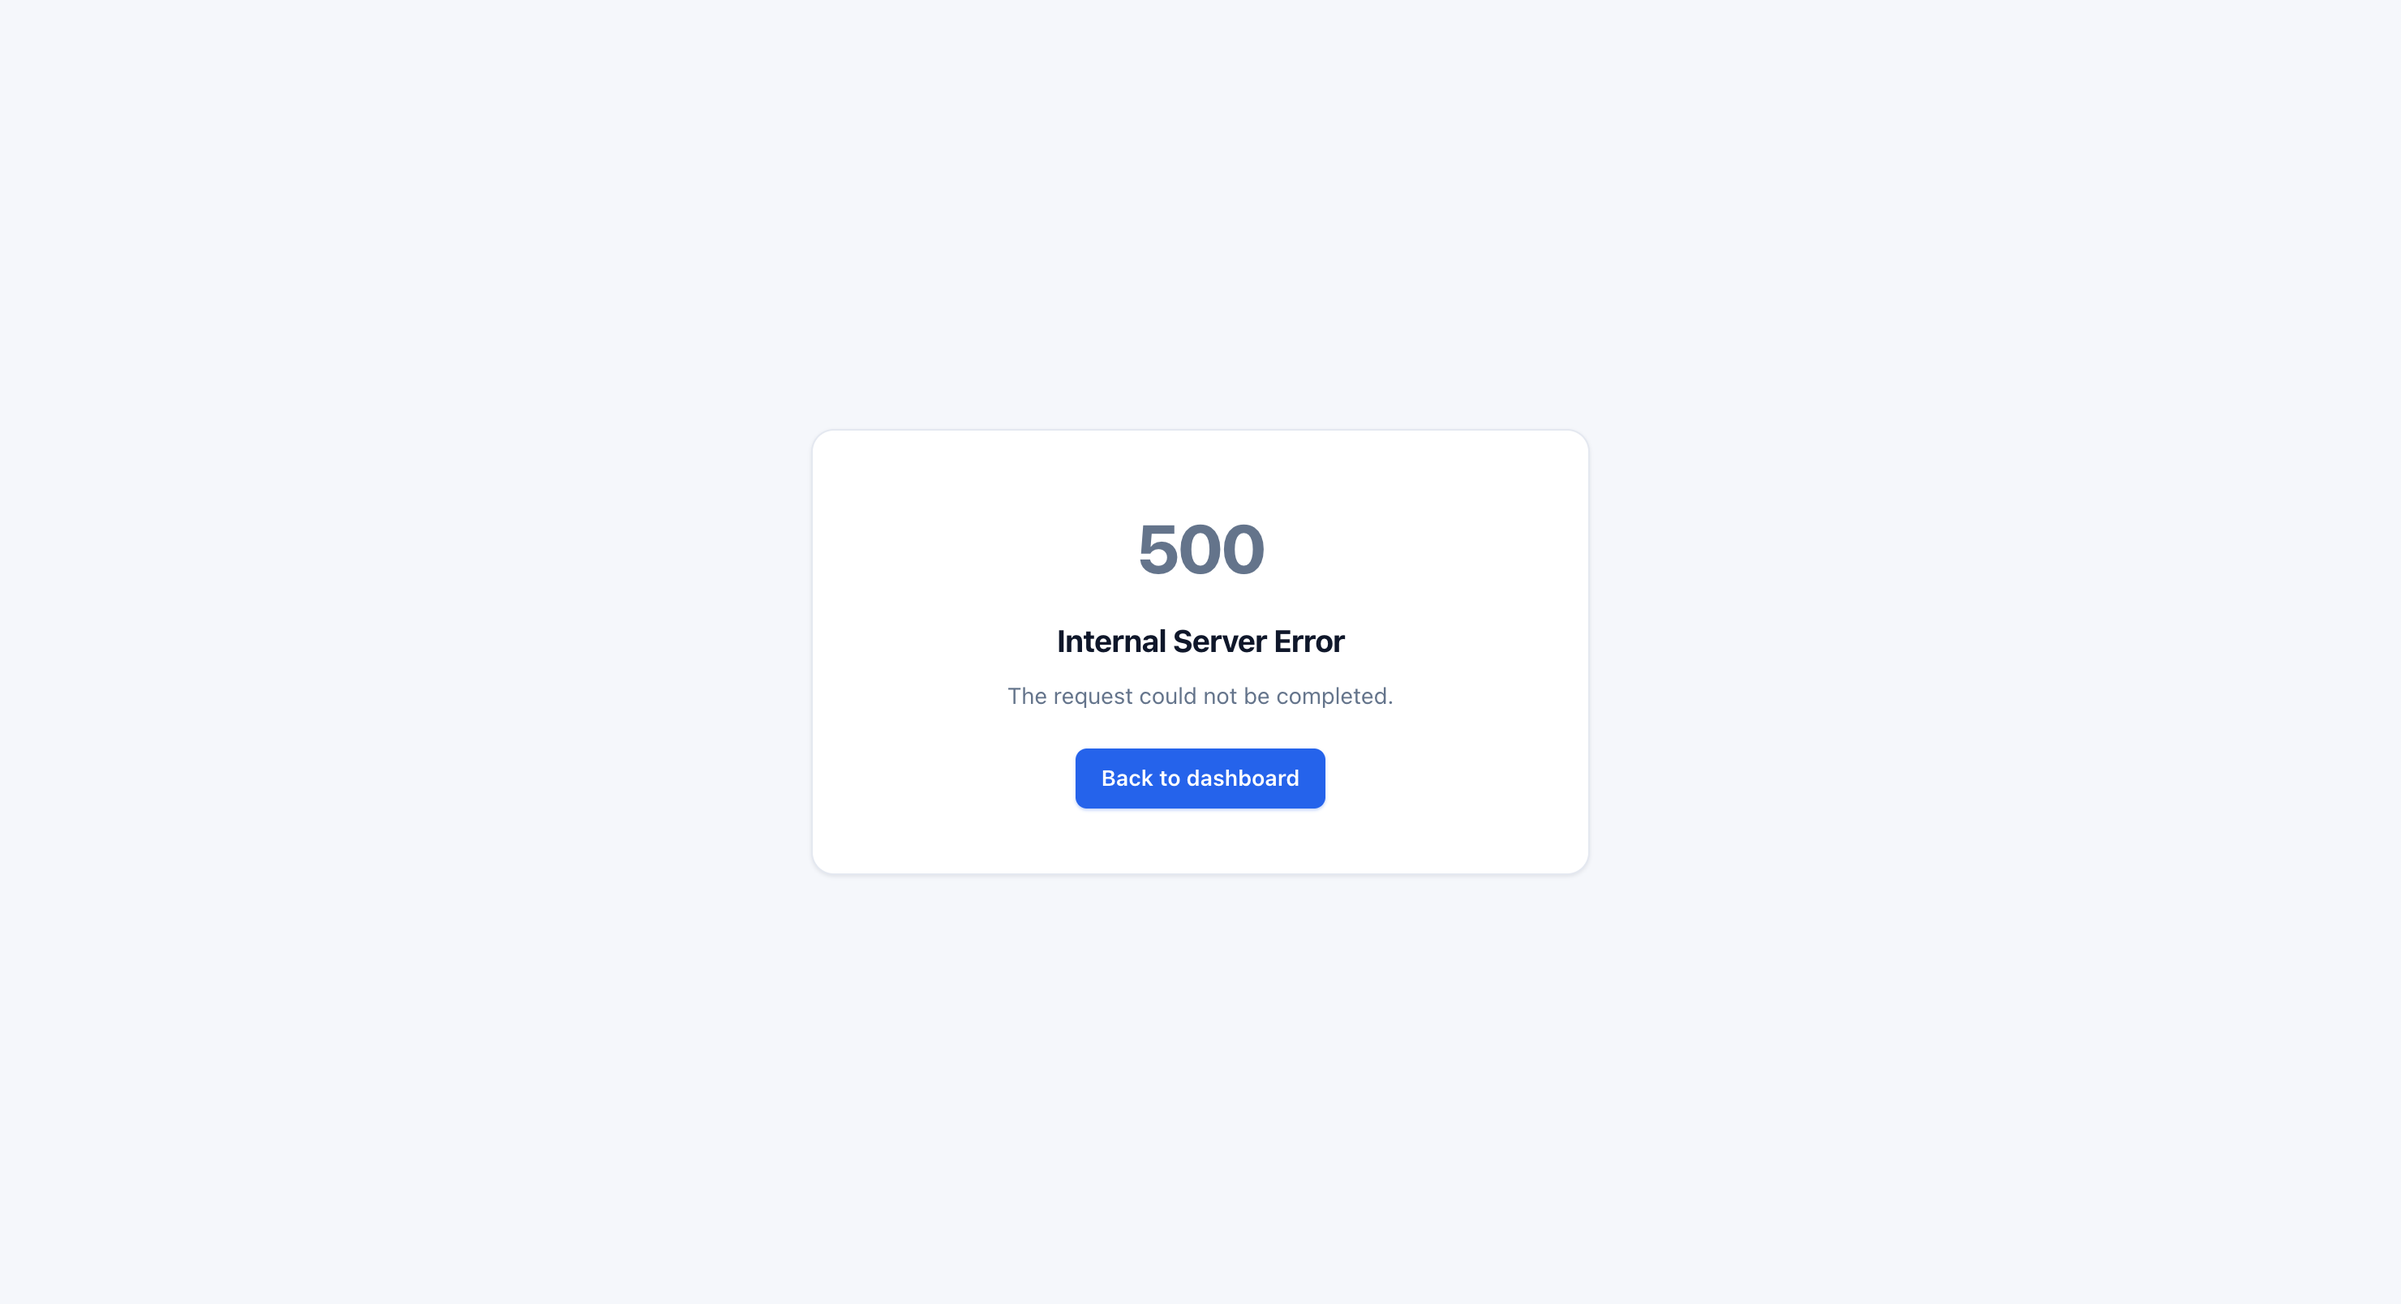
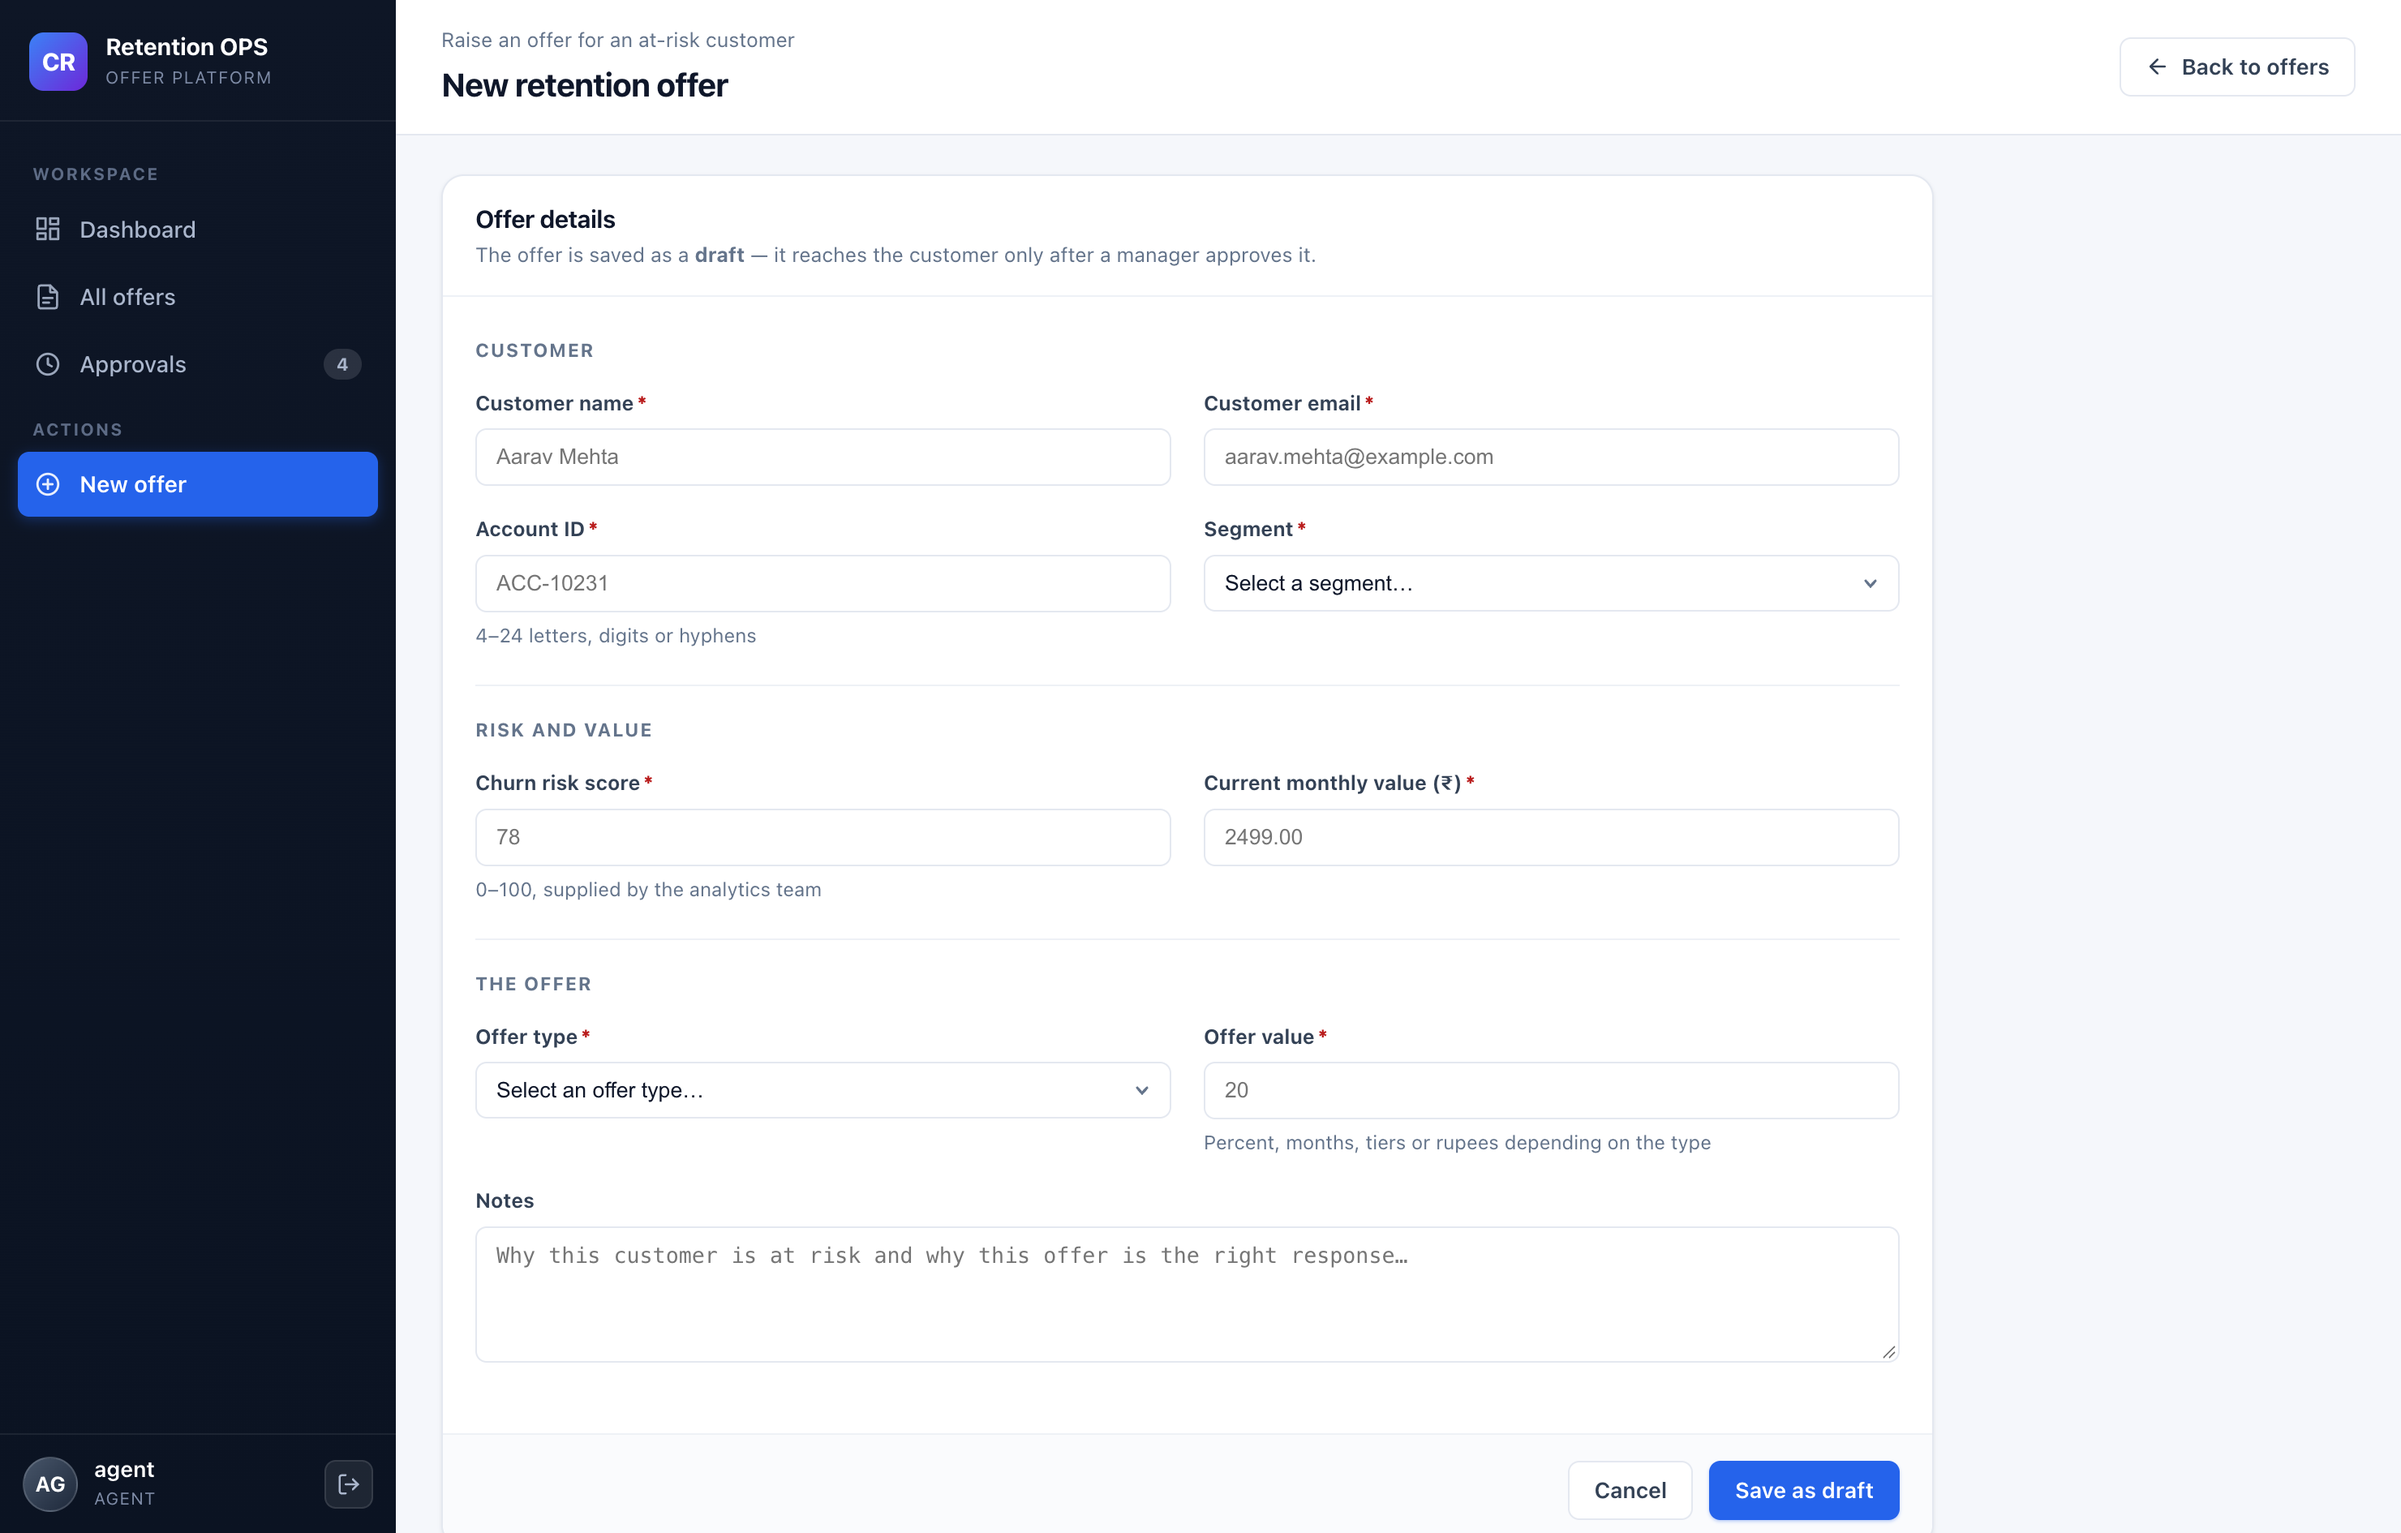
fix(ui): render the validation summary inside the form's object scope
The create form returned HTTP 500 on GET /offers/new. #fields resolves against
the enclosing th:object, and the validation summary sat above the <form>, so
Thymeleaf failed to parse the template with "Could not bind form errors using
expression all".

Moved the summary inside the form and left a comment saying why it has to be
there. Also relaxed the account-ID @Pattern with an empty alternative so a blank
field reports only the @NotBlank message instead of two overlapping errors.

Verified: GET /offers/new now returns 200, and submitting an empty form
redisplays it with one message per field and nothing persisted (US-02 AC3).

diff --git a/src/main/resources/templates/offers/form.html b/src/main/resources/templates/offers/form.html
@@ -11,13 +11,15 @@
 </div>
 
 <section>
-  <div class="alert alert--bad" th:if="${#fields.hasAnyErrors()}">
-    <svg viewBox="0 0 24 24" fill="none" stroke="currentColor" stroke-width="2" stroke-linecap="round" stroke-linejoin="round">
-      <circle cx="12" cy="12" r="9"/><line x1="12" y1="8" x2="12" y2="12.5"/><circle cx="12" cy="16" r="0.6" fill="currentColor"/></svg>
-    <span><b>This offer was not saved.</b> Correct the highlighted fields and submit again.</span>
-  </div>
-
   <form th:action="@{/offers}" th:object="${offer}" method="post" novalidate>
+
+    <!-- #fields resolves against the enclosing th:object, so the validation summary
+         must live inside the form, not above it. -->
+    <div class="alert alert--bad" th:if="${#fields.hasAnyErrors()}">
+      <svg viewBox="0 0 24 24" fill="none" stroke="currentColor" stroke-width="2" stroke-linecap="round" stroke-linejoin="round">
+        <circle cx="12" cy="12" r="9"/><line x1="12" y1="8" x2="12" y2="12.5"/><circle cx="12" cy="16" r="0.6" fill="currentColor"/></svg>
+      <span><b>This offer was not saved.</b> Correct the highlighted fields and submit again.</span>
+    </div>
     <div class="card" style="max-width:920px">
       <div class="card-head">
         <div>

diff --git a/src/main/java/com/crop/retention/model/RetentionOffer.java b/src/main/java/com/crop/retention/model/RetentionOffer.java
@@ -43,7 +43,8 @@ public class RetentionOffer {
     private String customerEmail;
 
     @NotBlank(message = "Account ID is required")
-    @Pattern(regexp = "[A-Za-z0-9-]{4,24}", message = "Account ID must be 4-24 letters, digits or hyphens")
+    // the empty alternative keeps @NotBlank the only message shown on a blank field
+    @Pattern(regexp = "^$|[A-Za-z0-9-]{4,24}", message = "Account ID must be 4-24 letters, digits or hyphens")
     @Column(nullable = false, length = 24)
     private String accountId;
 
